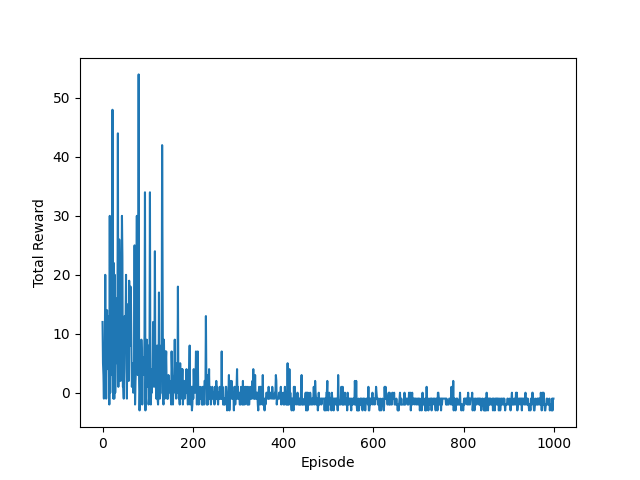
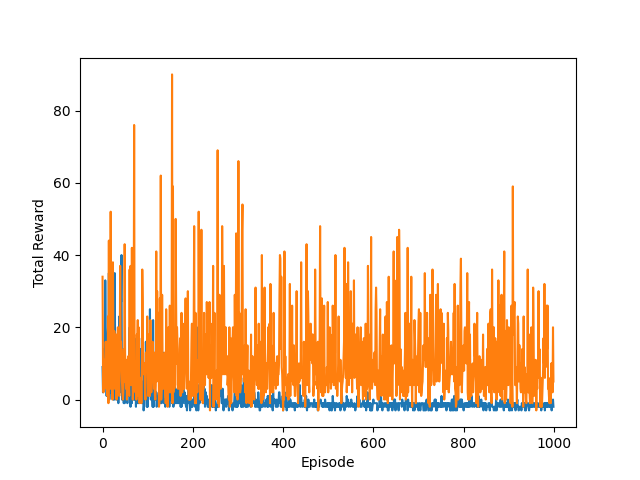
cartpole dqn updated

diff --git a/cartPole.py b/cartPole.py
@@ -1,0 +1,119 @@
+import os
+import gymnasium as gym
+import numpy as np
+import matplotlib.pyplot as plt
+import pickle
+import torch
+import torch.nn as nn
+import torch.nn.functional as F
+from collections import deque
+import random
+from torch.utils.tensorboard import SummaryWriter
+
+class DQNAgent:
+    def __init__(self, state_size, action_size):
+        self.state_size = state_size
+        self.action_size = action_size
+        self.memory = deque(maxlen=2000)
+        self.gamma = 0.99  # discount rate
+        self.epsilon = 1.0  # exploration rate
+        self.epsilon_min = 0.01
+        self.epsilon_decay = 0.995
+        self.learning_rate = 0.001
+        self.model = self._build_model()
+
+    def _build_model(self):
+        model = nn.Sequential(
+            nn.Linear(self.state_size, 24),
+            nn.ReLU(),
+            nn.Linear(24, 24),
+            nn.ReLU(),
+            nn.Linear(24, self.action_size)
+        )
+        return model
+
+    def remember(self, state, action, reward, next_state, done):
+        self.memory.append((state, action, reward, next_state, done))
+
+    def act(self, state):
+        if np.random.rand() <= self.epsilon:
+            return np.random.randint(self.action_size)
+        state = torch.tensor(state, dtype=torch.float).unsqueeze(0)
+        act_values = self.model(state)
+        return torch.argmax(act_values).item()
+
+    def replay(self, batch_size):
+        if len(self.memory) < batch_size:
+            return
+        minibatch = random.sample(self.memory, batch_size)
+        for state, action, reward, next_state, done in minibatch:
+            state = torch.tensor(state, dtype=torch.float)
+            next_state = torch.tensor(next_state, dtype=torch.float)
+            target = reward
+            if not done:
+                target += self.gamma * torch.max(self.model(next_state)).item()
+            target_f = self.model(state).detach().clone()
+            target_f[action] = target
+            self.model.zero_grad()
+            criterion = nn.MSELoss()
+            loss = criterion(self.model(state), target_f)
+            loss.backward()
+            optimizer = torch.optim.Adam(self.model.parameters(), lr=self.learning_rate)
+            optimizer.step()
+        if self.epsilon > self.epsilon_min:
+            self.epsilon *= self.epsilon_decay
+
+def run(is_training=True, render=False):
+    env = gym.make('CartPole-v1', render_mode='human' if render else None)
+    state_size = env.observation_space.shape[0]
+    action_size = env.action_space.n
+    agent = DQNAgent(state_size, action_size)
+    episodes = 1000
+    batch_size = 32
+
+    rewards_per_episode = []
+
+    # Initialize TensorBoard writer
+    writer = SummaryWriter(log_dir='./tensorboard_logs')
+
+    for e in range(episodes):
+        state, _ = env.reset()
+        total_reward = 0
+        done = False
+        while not done:
+            action = agent.act(state)
+            next_state, reward, done, truncated, _ = env.step(action)
+            reward = reward if not done else -10
+            agent.remember(state, action, reward, next_state, done)
+            state = next_state
+            total_reward += reward
+            if done:
+                rewards_per_episode.append(total_reward)
+                mean_rewards = np.mean(rewards_per_episode[-100:])
+                print(f"Episode {e}/{episodes}, Reward: {total_reward}, Mean Reward: {mean_rewards:.2f}, Epsilon: {agent.epsilon:.2f}")
+                writer.add_scalar('Reward', total_reward, e)  # Log reward to TensorBoard
+                break
+        if is_training:
+            agent.replay(batch_size)
+        if np.mean(rewards_per_episode[-100:]) > 195:
+            print("Environment solved!")
+            break
+
+    writer.close()  # Close TensorBoard writer
+
+    if is_training:
+        with open('cartpole_dqn.pkl', 'wb') as f:
+            pickle.dump(agent.model.state_dict(), f)
+
+    plt.plot(rewards_per_episode)
+    plt.xlabel('Episode')
+    plt.ylabel('Total Reward')
+    plt.savefig('cartpole_dqn_rewards.png')
+    env.close()
+
+if __name__ == '__main__':
+    # Training phase
+    run(is_training=True, render=False)
+
+    # Testing phase
+    run(is_training=False, render=True)

diff --git a/plot.py b/plot.py
@@ -1,0 +1,13 @@
+import pandas as pd
+import seaborn as sns
+import matplotlib.pyplot as plt
+
+# Load TensorBoard CSV data
+data = pd.read_csv('csv.csv')
+
+# Plot using Seaborn
+sns.lineplot(data=data, x='Step', y='Value')
+plt.xlabel('Episode')
+plt.ylabel('Total Reward')
+plt.title('Classical Control CartPole Training Rewards')
+plt.show()

diff --git a/README.md b/README.md
@@ -1,0 +1,1 @@
+# Project outline
